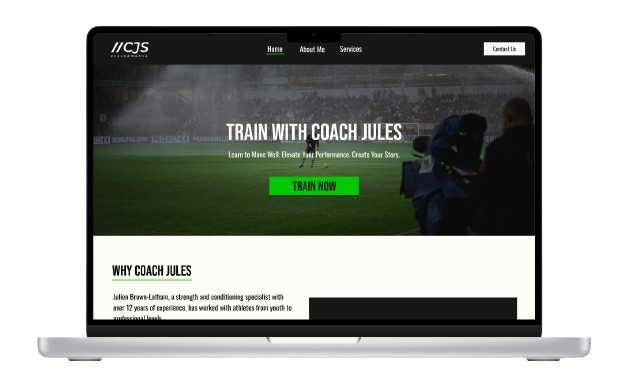
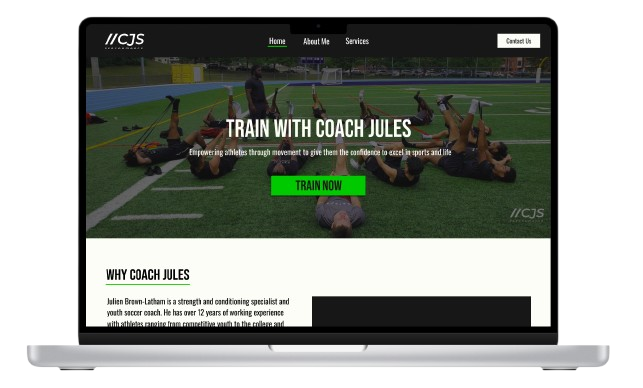
CJS page added

diff --git a/src/components/CJS/index.js b/src/components/CJS/index.js
@@ -8,6 +8,13 @@ import "swiper/css/effect-flip";
 import "swiper/css/pagination";
 
 import CJSFigma from "../../assets/CJSFigma.png";
+import CJSAbout from "../../assets/CJSAbout.png";
+import CJSAbout2 from "../../assets/CJSAbout2.png";
+import CJSAchievements from "../../assets/CJSAchievements.png";
+import CJSAchievements2 from "../../assets/CJSAchievements2.png";
+import CJSContact from "../../assets/CJSContact.png";
+import CJSTestimonials from "../../assets/CJSTestimonials.png";
+import CJSServices from "../../assets/CJSServices.png";
 
 // Fix the mobile image and then also check the side align for the second image
 function CJS() {
@@ -31,6 +38,14 @@ function CJS() {
           <p className="CJS-header">CJS</p>
           <p>Freelance UI/UX Designer</p>
           <p>August 2024 - October 2024</p>
+          <a
+            href="https://cjsperformance.online/"
+            target="_blank"
+            rel="noopener noreferrer"
+            className="view-website-link"
+          >
+            <p>View Official Website</p>
+          </a>
         </div>
         <div className="swipper-container">
           <Swiper
@@ -48,16 +63,26 @@ function CJS() {
             <SwiperSlide className="slide">
               <div className="text">
                 <div>
-                  <h1 className="CJS-page-titles">Dashboard (Old) </h1>
+                  <h1 className="CJS-page-titles">Home</h1>
                 </div>
                 <div className="text-scroll">
                   <p>
-                    CJS is a website designed for a soccer coach looking to
-                    connect with players of all ages seeking professional
-                    training. The platform serves as a tool to attract and
-                    generate leads for new students, helping them improve their
-                    skills through tailored coaching sessions.
+                    Since the purpose of the website was to gain clients, I
+                    choose to have it be a the coach and his students with a
+                    train now button. The image and the bold button gives
+                    professionalism of coaching and entises them to see what
+                    this coach has to offer.
                   </p>
+                  <br />
+                  <p>
+                    I choose to have green as the accent colour as it signified
+                    health, which was discovered upon some research. It also
+                    allows us to highlight important information/buttons where
+                    needed. The contact us button at the top right of the screen
+                    turn green upon hover, which is a nice touch as well.
+                  </p>
+                  <br />
+                  <p>The about me page has a similar layout.</p>
                 </div>
               </div>
               <div className="content">
@@ -67,20 +92,104 @@ function CJS() {
             <SwiperSlide className="slide">
               <div className="text">
                 <div>
-                  <h1 className="CJS-page-titles">Dashboard (Old) </h1>
+                  <h1 className="CJS-page-titles">About </h1>
                 </div>
                 <div className="text-scroll">
                   <p>
-                    CJS is a website designed for a soccer coach looking to
-                    connect with players of all ages seeking professional
-                    training. The platform serves as a tool to attract and
-                    generate leads for new students, helping them improve their
-                    skills through tailored coaching sessions.
+                    There were two parts talking about the coach. It was
+                    important to have a brief description of the coach on the
+                    main page, for those who just want to get an understanding.
+                    They have the ability to watch a video (provided by my
+                    client) and/or click the read more button for more.
                   </p>
                 </div>
               </div>
               <div className="CJS-image">
-                <img src={CJSFigma} alt="" />
+                <img src={CJSAbout} alt="" />
+              </div>
+            </SwiperSlide>
+            <SwiperSlide className="slide">
+              <div className="text">
+                <div>
+                  <h1 className="CJS-page-titles">Achievements </h1>
+                </div>
+                <div className="text-scroll">
+                  <p>
+                    Another important aspect when dealing with a website to gain
+                    clients, is to talk about why them. This section highlights
+                    3 key aspects that they can provide if you choose them.
+                    Since he is a soccer coach, I looked for background images
+                    relating to the sport. Once again, the green is used again
+                    to highlight the title and having a simple icon to represent
+                    the information on that card.
+                  </p>
+                </div>
+              </div>
+              <div className="CJS-image">
+                <img src={CJSAchievements} alt="" />
+              </div>
+            </SwiperSlide>
+            <SwiperSlide className="slide">
+              <div className="text">
+                <div>
+                  <h1 className="CJS-page-titles">Testimonials</h1>
+                </div>
+                <div className="text-scroll">
+                  <p>
+                    My client wanted to have a testimonial section highlighting
+                    words from his past students. This section I decided to have
+                    a horizontal slider which allowed the easy display of the
+                    kind words from these individuals. Additionally, if the
+                    testimonals were lengthy, the content would be scrollable
+                    vertically. This allows consistency of the card dimensions
+                    while showcases whatever is needed.
+                  </p>
+                </div>
+              </div>
+              <div className="CJS-image">
+                <img src={CJSTestimonials} alt="" />
+              </div>
+            </SwiperSlide>
+            <SwiperSlide className="slide">
+              <div className="text">
+                <div>
+                  <h1 className="CJS-page-titles">Contact Us</h1>
+                </div>
+                <div className="text-scroll">
+                  <p>
+                    As this website is to gain clients, another aspect that is
+                    good to have, is a contact us section. I choose the
+                    background image to be him as this website is to choose him
+                    as your training coach. In this section, the addition of
+                    location, phone number and email are easily accessible. The
+                    green is used to seperate the two parts in this card as well
+                    as highlight the submit button. This section is added to
+                    every page.
+                  </p>
+                </div>
+              </div>
+              <div className="CJS-image">
+                <img src={CJSContact} alt="" />
+              </div>
+            </SwiperSlide>
+            <SwiperSlide className="slide">
+              <div className="text">
+                <div>
+                  <h1 className="CJS-page-titles">Services</h1>
+                </div>
+                <div className="text-scroll">
+                  <p>
+                    The coach has different training options. The best way I
+                    thought of to display this information is to have dropdowns
+                    with an image for the headers. These images are related to
+                    soccer as he is a soccer coach. The dropdowns include the
+                    information provided. Since contacting him is an important
+                    aspect, the contact us section is added to every page.
+                  </p>
+                </div>
+              </div>
+              <div className="CJS-image">
+                <img src={CJSServices} alt="" />
               </div>
             </SwiperSlide>
           </Swiper>
@@ -119,7 +228,7 @@ function CJS() {
         </div>
 
         <div className="CJS-analysis">
-          <img src={CJSFigma} alt="" />
+          <img src={CJSAbout2} alt="" />
           <div className="analysis-div">
             <p className="analysis-header">Design Process</p>
             <p className="analysis-text">
@@ -181,7 +290,7 @@ function CJS() {
           </div>
           {/* Fix the size of the mobile version */}
           <div className="CJS-image">
-            <img src={CJSFigma} alt="" />
+            <img src={CJSAchievements2} alt="" />
           </div>
         </div>
       </div>

diff --git a/src/components/Navbar/index.js b/src/components/Navbar/index.js
@@ -140,9 +140,9 @@ function Navbar() {
               {dropdownOpen && (
                 <div className="dropdown-menu">
                   <a href="/case-studies/ao">Academic Oasis</a>
-                  {/* <a href="/case-studies/cheffery">Cheffery</a>
+                  {/* <a href="/case-studies/cheffery">Cheffery</a> */}
                   <a href="/case-studies/cjs">CJS</a>
-                  <a href="/case-studies/fitcheck">FitCheck</a> */}
+                  {/* <a href="/case-studies/fitcheck">FitCheck</a> */}
                 </div>
               )}
             </div>

diff --git a/src/components/CJS/styles.css b/src/components/CJS/styles.css
@@ -67,6 +67,7 @@
 .CJS-page-titles {
   font-size: 30px;
   padding-bottom: 20px;
+  color: var(--accent);
 }
 .swiper-container {
   width: 100%;
@@ -143,7 +144,7 @@
 .CJS-swiper .slide .text button {
   background-color: transparent;
   border: none;
-  font-size: 16px;
+  font-size: 22px;
   font-weight: bold;
   color: #3d5a80;
   cursor: pointer;
@@ -152,7 +153,7 @@
 }
 
 .CJS-swiper .slide .text button:hover {
-  color: #2c4a6d;
+  color: var(--accent);
 }
 
 .CJS-swiper .slide img {
